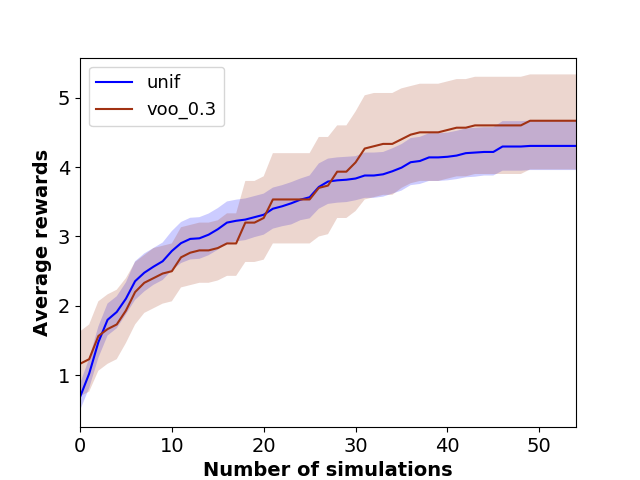
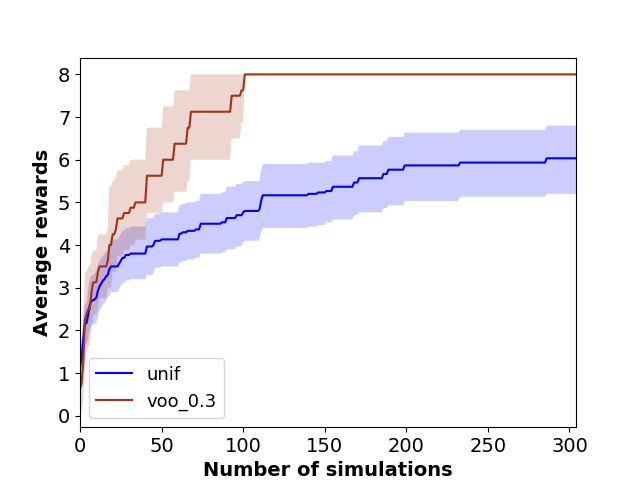
adding gpucb

diff --git a/generators/gpucb.py b/generators/gpucb.py
@@ -1,10 +1,13 @@
 import sys
 import numpy as np
 sys.path.append('../mover_library/')
-from samplers import gaussian_randomly_place_in_region
 from generator import Generator
 from utils import pick_parameter_distance, place_parameter_distance
 from planners.mcts_utils import make_action_executable
+
+from gpucb_utils.gp import StandardContinuousGP
+from gpucb_utils.functions import UCB, Domain
+from gpucb_utils.bo import BO
 
 
 class GPUCBGenerator(Generator):
@@ -14,13 +17,17 @@ class GPUCBGenerator(Generator):
         self.evaled_actions = []
         self.evaled_q_values = []
 
+        self.gp = StandardContinuousGP(3)
+        self.acq_fcn = UCB(zeta=explr_p, gp=self.gp)
+        self.domain = Domain(0, self.domain)
+        self.gp_optimizer = BO(self.gp, self.acq_fcn, self.domain)  # this depends on the problem
+
     def update_evaled_values(self, node):
         executed_actions_in_node = node.Q.keys()
         executed_action_values_in_node = node.Q.values()
 
         for action, q_value in zip(executed_actions_in_node, executed_action_values_in_node):
             executable_action = make_action_executable(action)
-
             is_in_array = [np.array_equal(executable_action['action_parameters'], a) for a in self.evaled_actions]
             is_action_included = np.any(is_in_array)
 
@@ -35,20 +42,17 @@ class GPUCBGenerator(Generator):
         self.update_evaled_values(node)
 
         for i in range(n_iter):
-            rnd = np.random.random()
-            if rnd < 1 - self.explr_p and len(self.evaled_actions) > 0 \
-                    and np.max(self.evaled_q_values) > self.problem_env.infeasible_reward:
-                action_parameters = self.sample_from_best_voronoi_region(node)
-            else:
-                action_parameters = self.sample_from_uniform()
+            action_parameters = self.gp_optimizer.choose_next_point(self.evaled_actions, self.evaled_q_values)
             action, status = self.feasibility_checker.check_feasibility(node,  action_parameters)
 
             if status == 'HasSolution':
                 print "Found feasible sample"
                 break
             else:
+                #takes too long
                 self.evaled_actions.append(action_parameters)
                 self.evaled_q_values.append(self.problem_env.infeasible_reward)
+                pass
 
         return action
 

diff --git a/generators/voo.py b/generators/voo.py
@@ -51,6 +51,7 @@ class VOOGenerator(Generator):
                 print "Found feasible sample"
                 break
             else:
+                # this does not add any information
                 #self.evaled_actions.append(action_parameters)
                 #self.evaled_q_values.append(self.problem_env.infeasible_reward)
                 pass
@@ -98,25 +99,9 @@ class VOOGenerator(Generator):
         best_evaled_action = self.evaled_actions[np.argmax(self.evaled_q_values)]
         other_actions = self.evaled_actions
 
-        '''
-        grasp_params = pick_parameters[0:3]
-        portion = pick_parameters[3]
-        base_angle = pick_parameters[4]
-        facing_angle = pick_parameters[5]
-        '''
-
         while np.any(best_dist > other_dists):
             #print "Gaussian pick sampling, counter", counter, len(other_dists)
-            """
-            best_ir_parameters = best_evaled_action[3:]
 
-            var_ir = np.array([0.3, 30*np.pi/180., 10*np.pi/180]) / float(counter)
-            ir_parameters = np.random.normal(best_ir_parameters, var_ir)
-
-            best_action_grasp_params = best_evaled_action[0:3]
-            var_grasp = np.array([0.5, 0.2, 0.2]) / float(counter)
-            grasp_params = np.random.normal(best_action_grasp_params, var_grasp)
-            """
             variance = 0.5*(self.domain[1] - self.domain[0]) / counter
             new_parameters = np.random.normal(best_evaled_action, variance)
             new_parameters = np.clip(new_parameters, self.domain[0], self.domain[1])

diff --git a/plotters/plot_planners.py b/plotters/plot_planners.py
@@ -72,7 +72,7 @@ def get_result_dir(domain_name, algo_name, widening_parameter):
     """
 
     if domain_name == 'convbelt':
-        result_dir = rootdir+'/convbelt_results/mcts_iter_50/uct_0.0_widening_'+ str(widening_parameter)+'_'
+        result_dir = rootdir+'/convbelt_results/mcts_iter_300/uct_0.0_widening_'+ str(widening_parameter)+'_'
         print result_dir
     elif domain_name == 'namo':
         result_dir = rootdir+'/namo_results/mcts_iter_50/uct_0.0_widening_' + str(widening_parameter)+'_'
@@ -81,7 +81,7 @@ def get_result_dir(domain_name, algo_name, widening_parameter):
 
     result_dir += algo_name +'/'
     if algo_name.find('voo')!=-1:
-        result_dir += 'eps_'+ str(epsilon)+'/'
+        result_dir += 'eps_'+ str(epsilon)+'/' + 'c1_1.0/'
     return result_dir
 
 
@@ -141,7 +141,7 @@ def get_max_rwds_wrt_time(search_rwd_times):
     return np.array(all_episode_data),organized_times
 
 def get_max_rwds_wrt_samples(search_rwd_times):
-    organized_times = range(55)
+    organized_times = range(305)
 
     all_episode_data = []
     for rwd_time in search_rwd_times:

diff --git a/planners/mcts.py b/planners/mcts.py
@@ -8,8 +8,7 @@ from mcts_utils import make_action_hashable, is_action_hashable
 
 from generators.uniform import UniformGenerator
 from generators.voo import VOOGenerator
-
-
+from generators.gpucb import GPUCBGenerator
 
 ## openrave helper libraries
 sys.path.append('../mover_library/')
@@ -70,6 +69,8 @@ class MCTS:
             return UniformGenerator(operator_name, self.environment)
         elif self.sampling_strategy == 'voo':
             return VOOGenerator(operator_name, self.environment, self.sampling_strategy_exploration_parameter, self.c1)
+        elif self.sampling_strategy == 'gpucb':
+            return GPUCBGenerator(operator_name, self.environment, self.sampling_strategy_exploration_parameter)
 
 
     def update_init_node_obj(self):

diff --git a/generators/PlaceGPUCB.py b/generators/PlaceGPUCB.py
@@ -16,9 +16,9 @@ class PlaceGPUCB:
         self.env = problem_env.env
         self.robot = self.env.GetRobots()[0]
         self.robot_region = self.problem_env.regions['entire_region']
+
         self.place_gp = StandardContinuousGP(3)
         self.place_acq_fcn = UCB(zeta=0.01, gp=self.place_gp)
-
         if problem_env.name == 'convbelt':
             place_domain = Domain(0, get_place_domain(problem_env.regions['object_region']))
         else:
